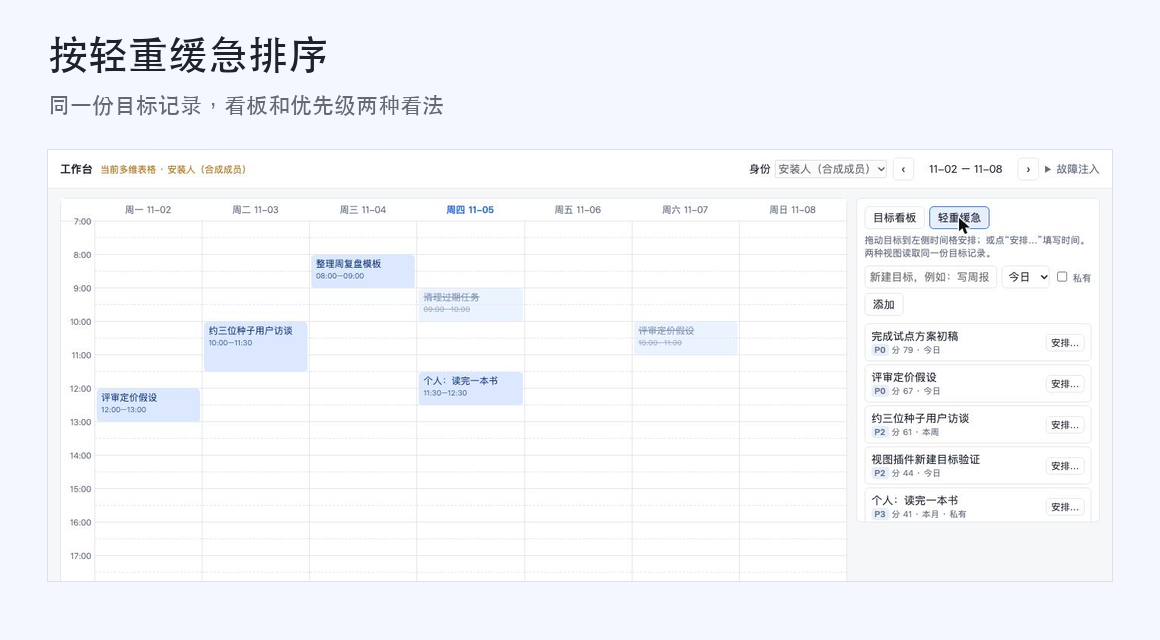
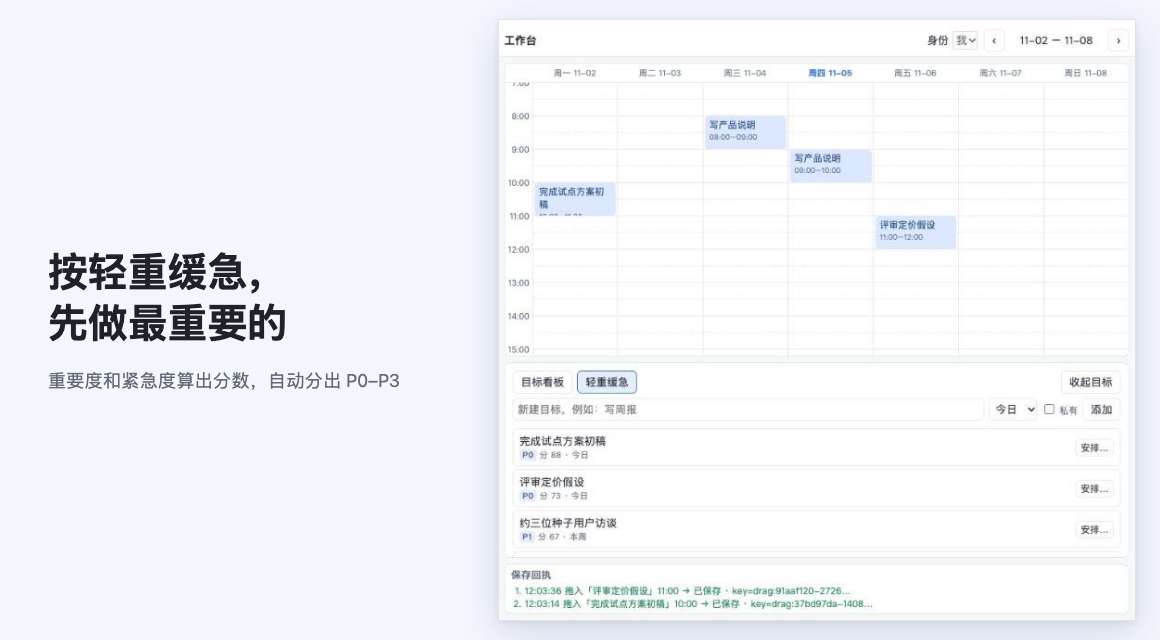
Marketplace images from the sidebar build, plus a generator script
Re-shot the cover and five detail images from the marketplace sidebar
extension in the test Base (synthetic data, no diagnostics). The new
tools/marketplace-images.mjs crops the extension area (crop.json in the
shots dir) and lays out each image with headless Chrome. Screenshots
stay out of the repo.

diff --git a/docs/marketplace/readiness.md b/docs/marketplace/readiness.md
@@ -17,8 +17,8 @@
 | --- | --- | --- |
 | 名称、一句话介绍、详情介绍 | [listing.md](listing.md) | ✅ 草稿，在字数限制内 |
 | 图标 240×240 | `assets/icon-240.png` | ✅ |
-| 封面 700×436 | `assets/cover-700x436.png` | ✅ 草稿（真实界面截图，合成数据） |
-| 详情图 4 张 1160×640 | `assets/detail-*.png` | ✅ 草稿，建议提交前用普通成员身份重截 |
+| 封面 700×436 | `assets/cover-700x436.png` | ✅ 上架版边栏界面截图，合成数据 |
+| 详情图 5 张 1160×640 | `assets/detail-*.png` | ✅ 用上架版边栏界面重截（P5） |
 | 帮助文档 | [user-guide.md](user-guide.md) | ✅ 草稿；首次安装一节依赖下面的产品缺口 |
 | 用户协议、隐私政策 | [user-agreement.md](user-agreement.md)、[privacy-policy.md](privacy-policy.md) | ✅ 草稿，按真实数据处理方式写；主体与联系方式待填 |
 | 定价 | 免费 | ✅ |
@@ -32,7 +32,7 @@
 | P2 | SDK 打包进来，不从 CDN 加载 | ✅ 打包 `@lark-base-open/js-sdk@1.0.2`；上架版不带诊断功能（故障注入、写入自检）。 |
 | P3 | **首次使用自动建表** | ✅ 缺表时显示“初始化工作台”，按清单用 SDK 建 5 张表、59 个字段并写入实例设置；可重复执行，字段类型冲突时不做任何修改。在一个全新空白 Base 中实测通过（64 步，约 1 分钟）。 |
 | P4 | **自助加入成员表** | ✅ 没有管理员时第一个加入的人成为管理员，其余人加入为成员；已停用的成员不能自行加入。实测第一人加入成功；第二人加入由单元测试覆盖，尚未在真实 Base 用第二个账号试。 |
-| P5 | 重截详情图 | ⏳ P6 已完成，可以用上架版边栏界面重截。 |
+| P5 | 重截详情图 | ✅ 在上架验证空白 Base 中用上架版边栏截图，合成数据，不含诊断入口；封面和 5 张详情图由 `tools/marketplace-images.mjs` 生成。在 1920×902 的浏览器窗口里重截，边栏宽约 840px（窄屏布局），插件区域比第一版高约 15%，无鼠标指针、无输入框高亮。 |
 | P6 | **边栏宽度下的布局** | ✅ 宽度 ≤860px 时日历在上、目标在下，两块各自滚动、同屏可见，页面本身不滚动；可“收起目标”让日历占满高度。没有改成目标／日历二选一的切换，因为那样无法把目标拖进日历。已在真实 Base 边栏（约 730px 宽）中用鼠标把目标拖进日历并保存成功；420px 宽在本地预览中验证。 |
 | P7 | 账号显示名 | ⚠ 插件 SDK 读不到账号名字，加入后工作台里自己的身份显示为“我”；成员表“显示名”留空，管理员可手动填写。 |
 

diff --git a/docs/progress/implementation-log.md b/docs/progress/implementation-log.md
@@ -245,6 +245,13 @@
 - 没有做成目标／日历二选一的切换：二选一时目标和日历不同屏，“从目标拖进日历”就无法完成，三种交互不能互相替代。
 - 验证：本地预览 420×800、700×760 下各区域都在一屏内，合成拖拽写入成功；1280 宽仍是左右两栏。真实 Base（上架验证空白 Base）边栏约 730px 宽，用鼠标把目标拖进周三 8:00 并保存成功。112 项单元测试通过。
 
+### 2026-11-04 补记：重截上架图片（P5）
+
+- 在上架验证用的空白 Base 里打开上架版边栏插件，用合成目标和时间安排截了 5 个场景：总览、「安排…」表单、轻重缓急、完成或取消、收起目标。
+- `tools/marketplace-images.mjs` 把截图裁成插件区域，排成封面（700×436）和 5 张详情图（1160×640）；截图本身不入库。
+- 第一版受窗口高度（675px）限制；随后在 1920×902 的窗口里重截：边栏拉到约 840px 宽保持窄屏布局，去掉鼠标指针和输入框高亮，轻重缓急图显示完整的三张卡片。截图区域写在截图目录的 `crop.json` 里，脚本按它裁剪。
+- 仍可改进：保存回执里显示操作键；日历里 1 小时的时间块标题换行后第二行时间被遮住。
+
 ### 下一步
 1. F0-06 重试与并发（两个客户端真正同时写同一键），现在可在视图插件内用安装人与测试成员两个账号进行。
 1. 准备上架多维表格插件市场（用户计划自行尝试）：对照市场要求补齐说明、隐私与支持信息；涉及许可证与跨企业交付的事项先由用户决定。
